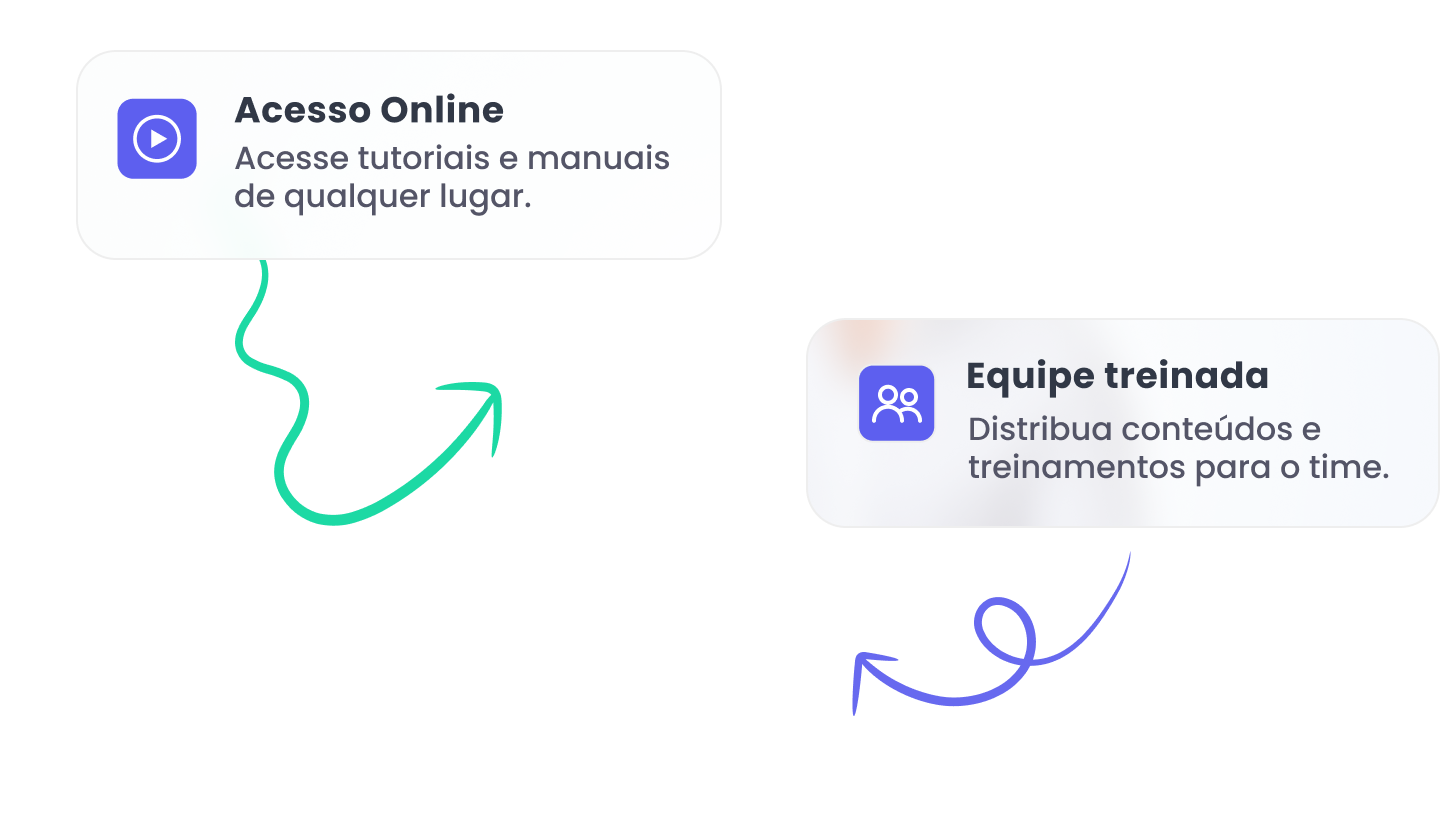
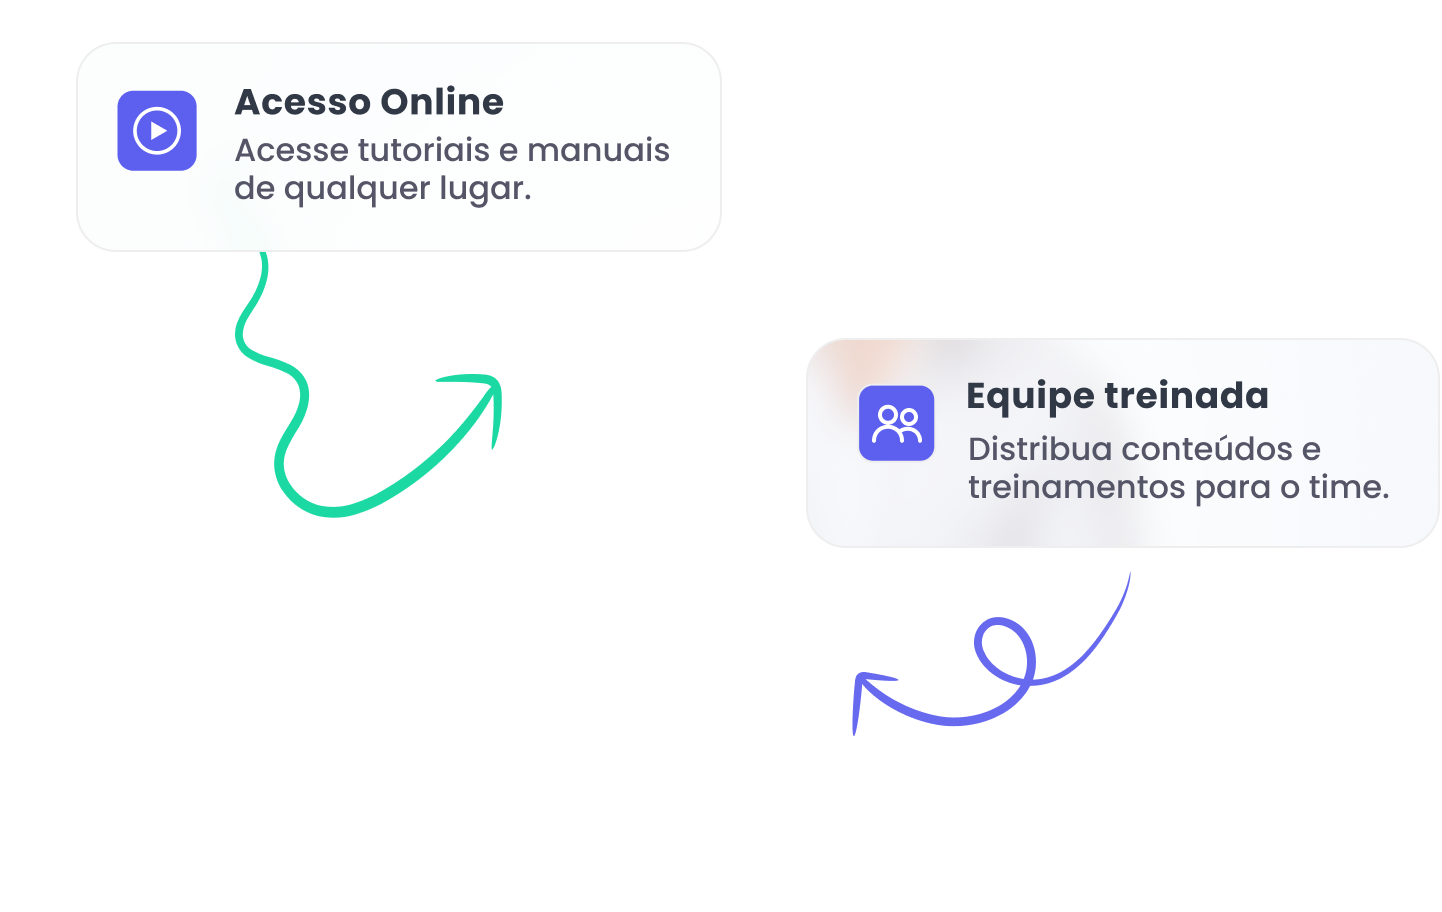
fix: update module hero sections and card arrows

diff --git a/app/components/sections/BaseConhecimentoHero.vue b/app/components/sections/BaseConhecimentoHero.vue
@@ -26,8 +26,8 @@ const moduleIcons: HeroModuleIcon[] = [
         <NuxtImg
           format="avif"
           src="/images/modulos-base-de-conhecimento/hero-visual.png"
-          :width="346"
-          :height="457"
+          :width="692"
+          :height="896"
           sizes="mobile-lg:300px tablet:340px tablet-lg:240px desktop:300px desktop-full:346px"
           alt="Profissional sorridente segurando um tablet" title="Profissional sorridente segurando um tablet"
           class="h-full w-full object-cover"
@@ -39,8 +39,8 @@ const moduleIcons: HeroModuleIcon[] = [
       <NuxtImg
         format="avif"
         src="/images/modulos-base-de-conhecimento/card_arrow.png"
-        :width="1440"
-        :height="816"
+        :width="1442"
+        :height="912"
         sizes="100vw tablet-lg:50vw desktop-full:720px"
         alt="Cartões flutuantes do módulo" title="Cartões flutuantes do módulo"
         aria-hidden="true"

diff --git a/app/components/sections/SiteRuralHero.vue b/app/components/sections/SiteRuralHero.vue
@@ -26,8 +26,8 @@ const moduleIcons: HeroModuleIcon[] = [
         <NuxtImg
           format="avif"
           src="/images/modulos-site-rural/hero-visual.png"
-          :width="724"
-          :height="912"
+          :width="692"
+          :height="896"
           sizes="mobile-lg:180px tablet:340px tablet-lg:240px desktop:300px desktop-full:362px"
           alt="Corretor de camisa azul" title="Corretor de camisa azul"
           class="h-full w-full object-cover"
@@ -38,8 +38,8 @@ const moduleIcons: HeroModuleIcon[] = [
       <NuxtImg
         format="avif"
         src="/images/modulos-site-rural/card_arrow.png"
-        :width="1440"
-        :height="816"
+        :width="1442"
+        :height="912"
         sizes="100vw tablet-lg:50vw desktop-full:720px"
         alt="Cartões flutuantes do módulo" title="Cartões flutuantes do módulo"
         aria-hidden="true"
